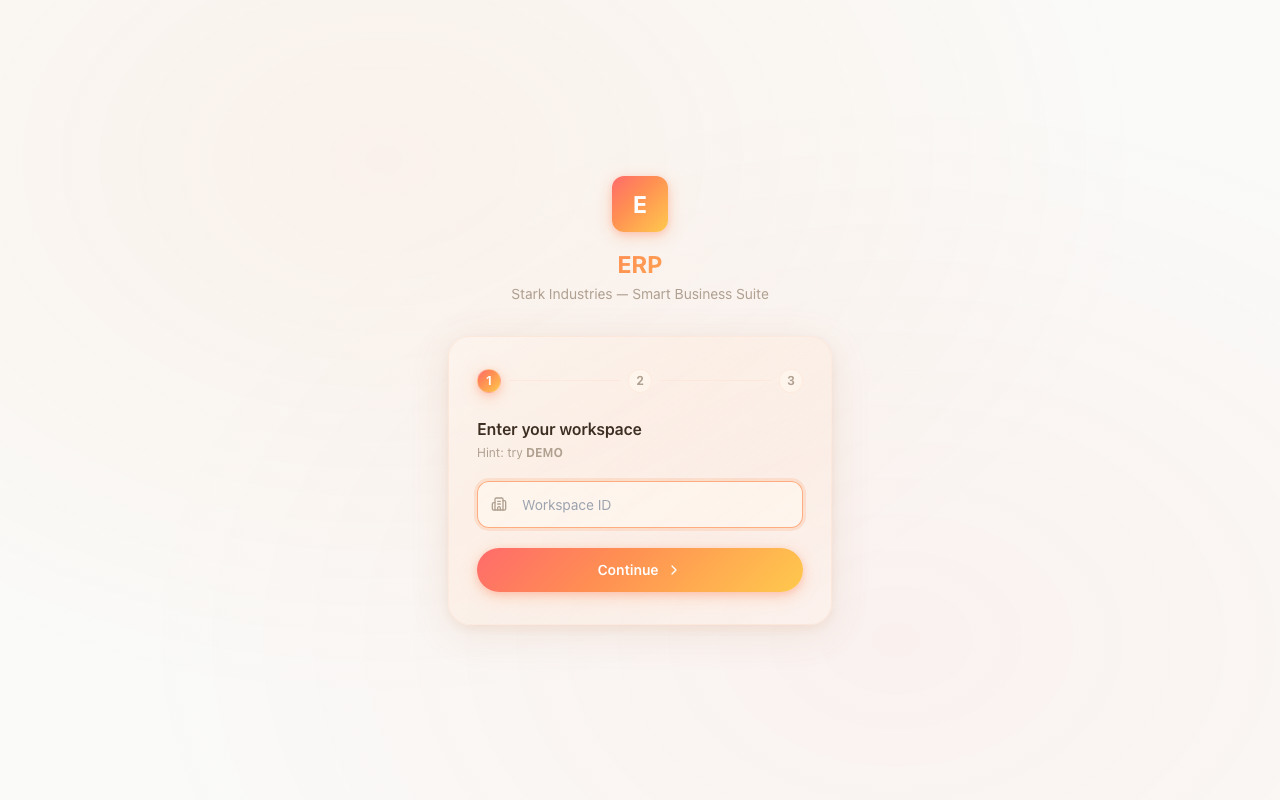
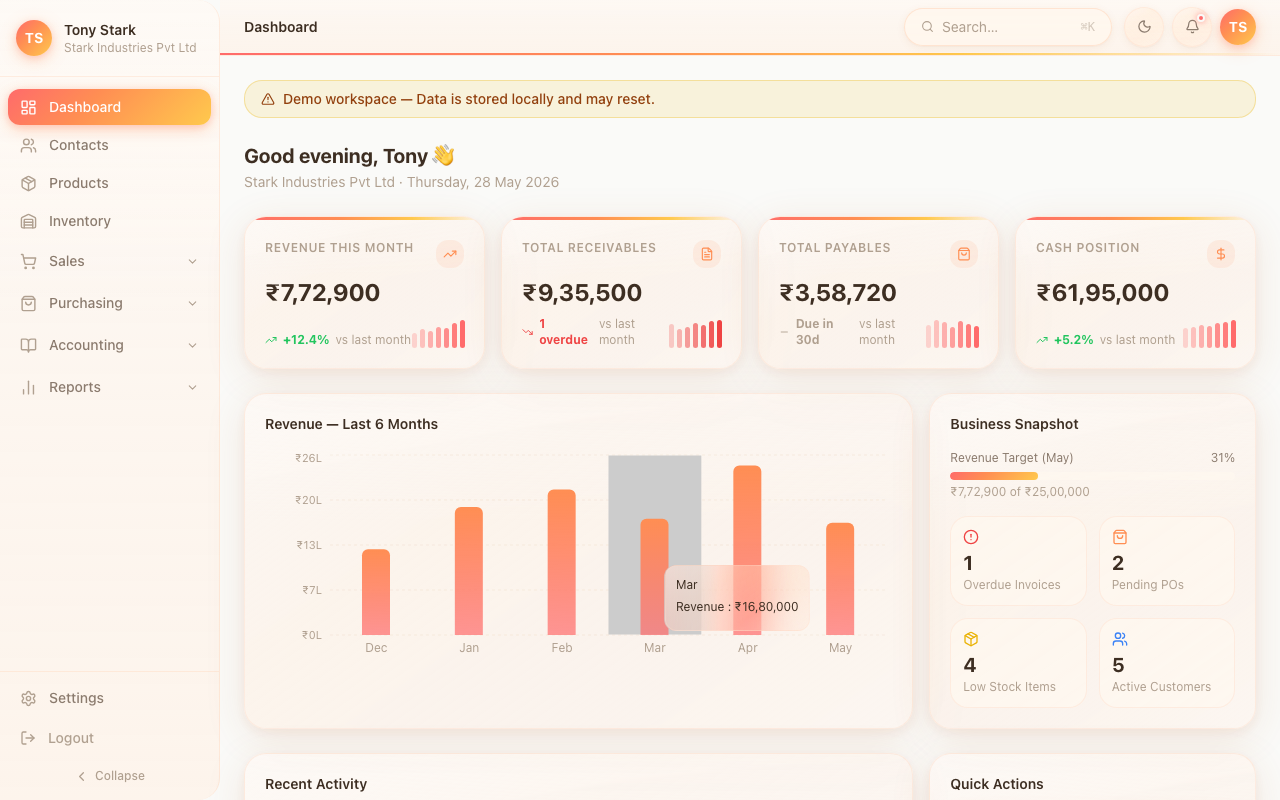
Update project screenshots and fix image fit in slide cards
Replaced POS screenshot with dark mode version and updated ERP screenshot
to show the dashboard. Fixed project card image layout to use contain fit
with inset positioning so screenshots display without cropping.

diff --git a/components/SlideItem.tsx b/components/SlideItem.tsx
@@ -122,16 +122,25 @@ export default function SlideItem({ slide, index, total, accent, category }: Pro
           display: "flex",
           alignItems: "center",
           justifyContent: "center",
-          padding: slide.screenshot ? 0 : 48,
+          padding: 48,
         }}
       >
         {slide.screenshot ? (
-          // Screenshot provided — fill the panel
+          // Screenshot — absolutely fills the padded area, contained within
           // eslint-disable-next-line @next/next/no-img-element
           <img
             src={slide.screenshot}
             alt={slide.title}
-            style={{ width: "100%", height: "100%", objectFit: "cover", objectPosition: "top center", display: "block" }}
+            style={{
+              position: "absolute",
+              inset: 16,
+              width: "calc(100% - 32px)",
+              height: "calc(100% - 32px)",
+              objectFit: "contain",
+              objectPosition: "top center",
+              display: "block",
+              borderRadius: 8,
+            }}
           />
         ) : (
           // Placeholder — waiting for screenshot